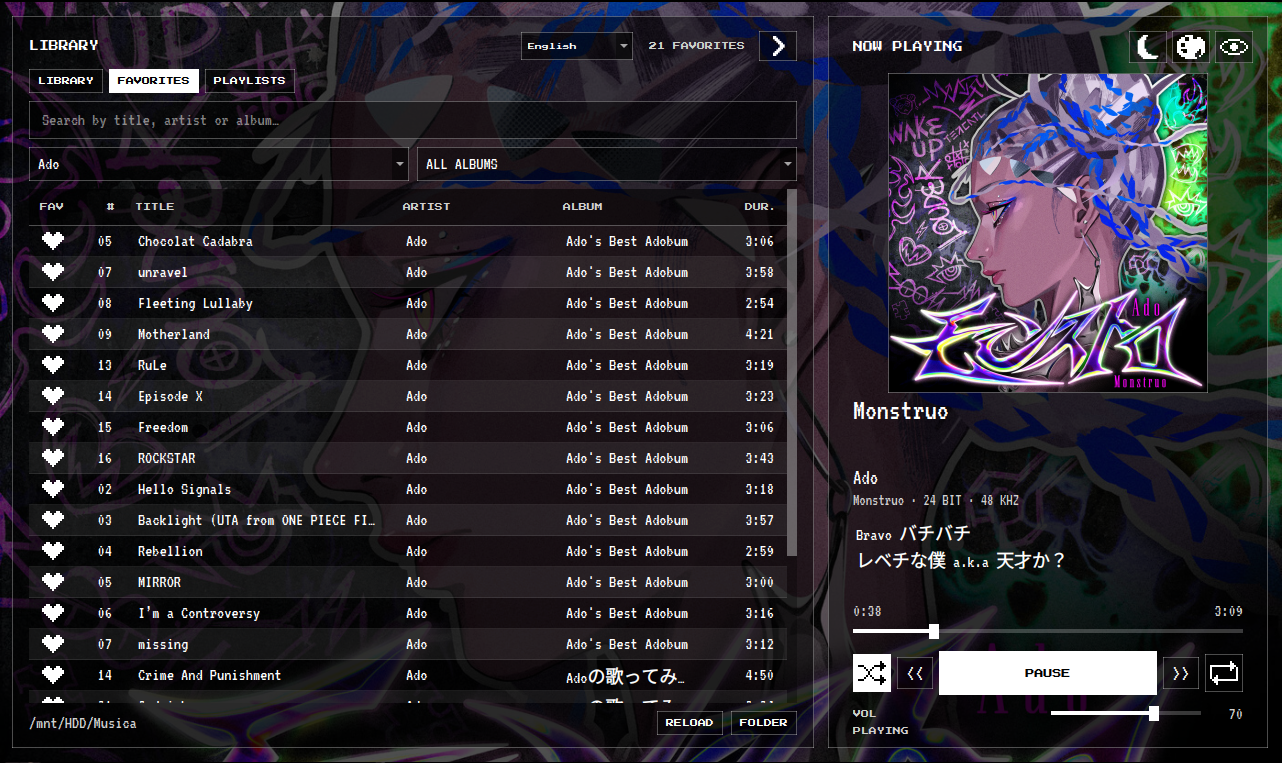
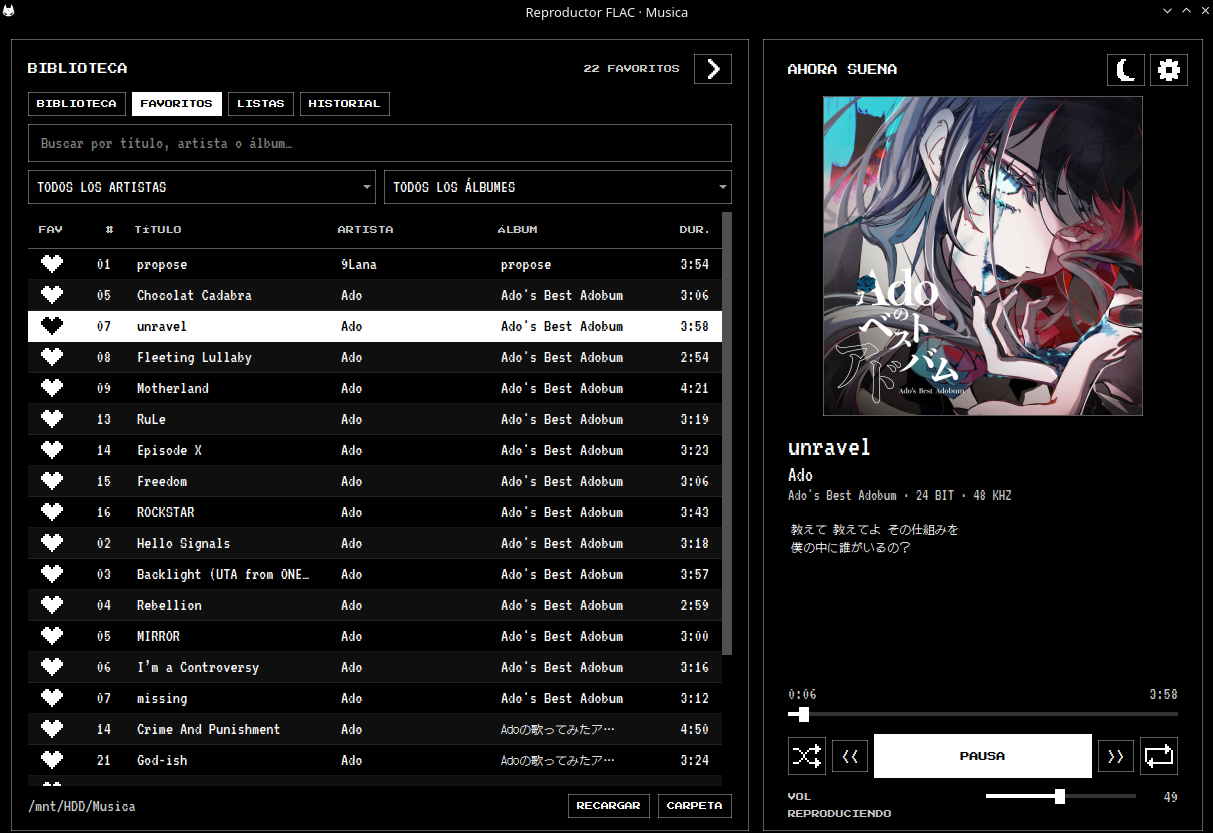
Actualiza captura del Reproductor FLAC en proyectos

diff --git a/index.html b/index.html
@@ -166,7 +166,7 @@
         <!-- Proyecto 01 -->
         <article class="game game-featured reveal" data-cat="code">
           <div class="game-screen crt-screen">
-            <img class="project-shot" src="assets/reproductor.png?v=2" alt="Reproductor FLAC con la biblioteca a la izquierda y el panel AHORA SUENA a la derecha" width="1282" height="763" loading="lazy">
+            <img class="project-shot" src="assets/reproductor.png?v=3" alt="Reproductor FLAC con la biblioteca a la izquierda y el panel AHORA SUENA a la derecha" width="1213" height="833" loading="lazy">
             <span class="crt-roll" aria-hidden="true"></span>
           </div>
           <div class="game-body">
